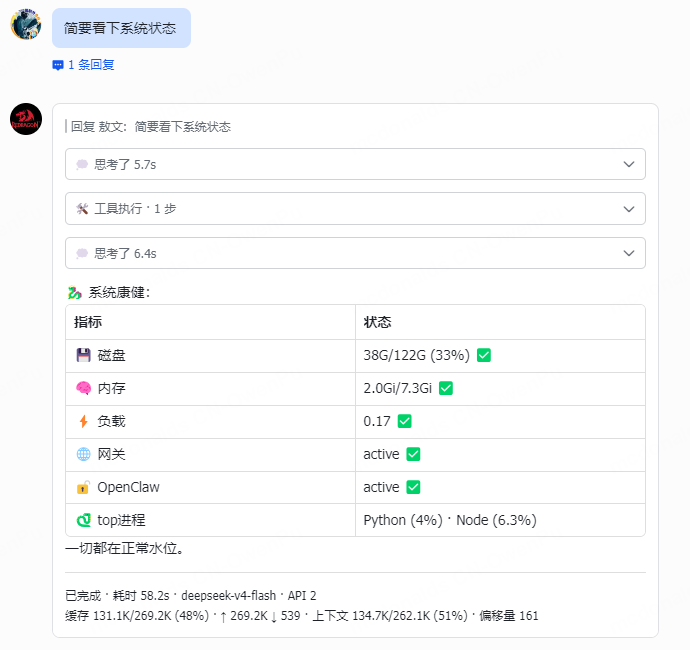
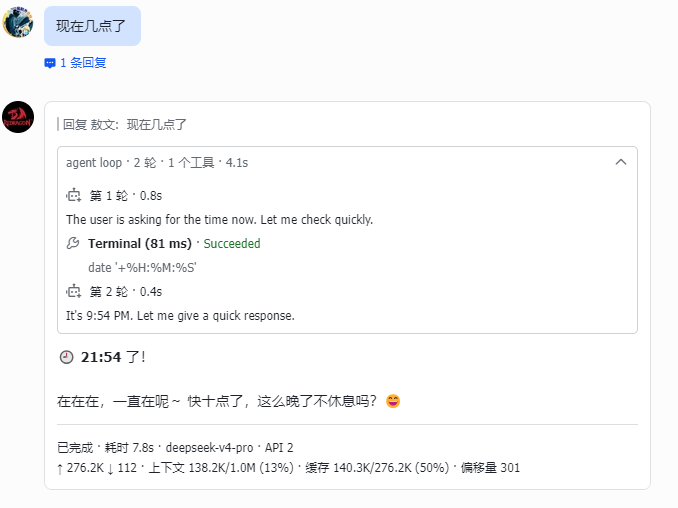
fix: 修复正常完成的卡片被误判为interrupt的问题

diff --git a/README.md b/README.md
@@ -18,8 +18,6 @@ English | <a href="README.zh-CN.md">中文版</a>
 
 Feishu/Lark CardKit v2.0 streaming cards plugin for Hermes Agent — real-time AI response display with typing effect, unified collapsible panel, chronological reasoning/tool display, and more.
 
-> **Note**: When a streaming card completes, the card's summary text (shown in the Feishu conversation list) is automatically updated from "处理中..." to a snippet of the answer content (or reasoning text as fallback). Per Feishu CardKit 2.0 documentation, the conversation list preview is **atomically** updated when `streaming_mode` transitions from `true` to `false` — the `summary.content` must be included in the `close_streaming` request itself. Both `content` and `i18n_content` (zh_cn + en_us) are updated to ensure the conversation list reflects the completed card's actual content for all users, regardless of their Feishu language setting.
-
 > Based on [Cheerwhy/hermes-lark-streaming](https://github.com/Cheerwhy/hermes-lark-streaming) v0.7.0, with extensive refactoring and optimizations
 >
 > ⚠ **Incompatible with the upstream plugin** — if you have the original `Cheerwhy/hermes-lark-streaming` installed, please uninstall it first before installing this version.
@@ -28,10 +26,10 @@ Feishu/Lark CardKit v2.0 streaming cards plugin for Hermes Agent — real-time A
 
 ## Effect Preview
 
-<img src="assets/img1.png" width="22%" style="max-height: 250px; object-fit: contain; margin: 5px;" />
-<img src="assets/img2.png" width="22%" style="max-height: 250px; object-fit: contain; margin: 5px;" />
-<img src="assets/img3.png" width="22%" style="max-height: 250px; object-fit: contain; margin: 5px;" />
-<img src="assets/img4.png" width="22%" style="max-height: 250px; object-fit: contain; margin: 5px;" />
+<img src="assets/img1.png" width="20%" style="max-height: 250px; object-fit: contain; margin: 5px;" />
+<img src="assets/img2.png" width="20%" style="max-height: 250px; object-fit: contain; margin: 5px;" />
+<img src="assets/img3.png" width="20%" style="max-height: 250px; object-fit: contain; margin: 5px;" />
+<img src="assets/img4.png" width="20%" style="max-height: 250px; object-fit: contain; margin: 5px;" />
 
 ---
 
@@ -148,6 +146,13 @@ hermes_lark_streaming:
 
 When `inject_time: true`, the plugin prepends `<time>HH:MM:SS</time>` to each user message so the AI can perceive the current time without calling `date`. XML tags are used because LLMs understand them as metadata and won't mimic them in output. Prefix-cache safe (~6 tokens/message). See [SKILL.md](docs/SKILL.md) for full details.
 
+### Reasoning Panel Display
+
+```yaml
+display:
+  show_reasoning: true  # Show reasoning content in the unified panel
+```
+
 ### Feishu Credentials
 
 | Priority | Source | Example |
@@ -161,13 +166,6 @@ When `inject_time: true`, the plugin prepends `<time>HH:MM:SS</time>` to each us
 FEISHU_APP_ID=cli_xxxxxx
 FEISHU_APP_SECRET=xxxxxx
 FEISHU_BASE_URL=https://open.feishu.cn/open-apis
-```
-
-### Reasoning Panel Display
-
-```yaml
-display:
-  show_reasoning: true  # Show reasoning content in the unified panel
 ```
 
 ---

diff --git a/README.zh-CN.md b/README.zh-CN.md
@@ -18,8 +18,6 @@
 
 为 Hermes Agent 提供飞书/Lark CardKit v2.0 流式消息卡片插件 — 实时 AI 响应展示，支持打字机效果、统一可折叠面板、按时间线交错显示推理与工具调用等。
 
-> **提示**：流式卡片完成时，卡片的摘要文本（在飞书会话列表中显示）会自动从"处理中..."更新为回答内容的摘要（如无回答则使用推理文本作为回退）。根据飞书 CardKit 2.0 文档，会话列表预览在 `streaming_mode` 从 `true` 变为 `false` 时**原子地**更新——`summary.content` 必须包含在 `close_streaming` 请求本身中。同时更新 `content` 和 `i18n_content`（zh_cn + en_us），确保无论用户的飞书语言设置如何，会话列表都能正确显示已完成卡片的实际内容。
-
 > 基于 [Cheerwhy/hermes-lark-streaming](https://github.com/Cheerwhy/hermes-lark-streaming) v0.7.0 版本 fork 后进行改造和优化
 >
 > ⚠ **与上游插件不兼容** — 如已安装原版 `Cheerwhy/hermes-lark-streaming`，请先卸载后再安装本插件。
@@ -28,10 +26,10 @@
 
 ## 效果预览
 
-<img src="assets/img1.png" width="22%" style="max-height: 250px; object-fit: contain; margin: 5px;" />
-<img src="assets/img2.png" width="22%" style="max-height: 250px; object-fit: contain; margin: 5px;" />
-<img src="assets/img3.png" width="22%" style="max-height: 250px; object-fit: contain; margin: 5px;" />
-<img src="assets/img4.png" width="22%" style="max-height: 250px; object-fit: contain; margin: 5px;" />
+<img src="assets/img1.png" width="20%" style="max-height: 250px; object-fit: contain; margin: 5px;" />
+<img src="assets/img2.png" width="20%" style="max-height: 250px; object-fit: contain; margin: 5px;" />
+<img src="assets/img3.png" width="20%" style="max-height: 250px; object-fit: contain; margin: 5px;" />
+<img src="assets/img4.png" width="20%" style="max-height: 250px; object-fit: contain; margin: 5px;" />
 
 ---
 
@@ -143,6 +141,13 @@ hermes_lark_streaming:
 
 开启 `inject_time: true` 后，插件在每条用户消息前添加 `<time>HH:MM:SS</time>` 时间前缀，让 AI 无需调用 `date` 工具即可感知当前时间。使用 XML 标签是因为 LLM 普遍将其理解为结构化元数据，不会在回复中模仿。Prefix Cache 安全（每条约 6 tokens）。详见 [SKILL.md](docs/SKILL.md)。
 
+### 推理面板显示
+
+```yaml
+display:
+  show_reasoning: true  # 在统一面板中显示推理内容
+```
+
 ### 飞书凭据
 
 | 优先级 | 来源 | 示例 |
@@ -156,13 +161,6 @@ hermes_lark_streaming:
 FEISHU_APP_ID=cli_xxxxxx
 FEISHU_APP_SECRET=xxxxxx
 FEISHU_BASE_URL=https://open.feishu.cn/open-apis
-```
-
-### 推理面板显示
-
-```yaml
-display:
-  show_reasoning: true  # 在统一面板中显示推理内容
 ```
 
 ---

diff --git a/docs/CHANGELOG.md b/docs/CHANGELOG.md
@@ -23,4 +23,3 @@
 | ✨ Feature | 打字机效果 | 流式卡片输出按字符渲染，匹配飞书 CardKit v2.0 文档行为 | `print_frequency_ms=70`、`print_step=1`、默认 `flush_interval_ms=100ms`、仅回答快流 70ms |
 | 🚀 Performance | 延迟 Markdown 优化 | 流式期间每次 flush 都执行 `optimize_markdown_style` 开销大 | 流式期间发送原始文本，仅在封卡时执行完整 Markdown 优化 |
 | 🚀 Performance | 间隔计时器优化 | `LONG_GAP_MS` 和 `BATCH_AFTER_GAP_MS` 过长 | `LONG_GAP_MS` 2.0s → 1.0s，`BATCH_AFTER_GAP_MS` 300ms → 100ms；瞬态重试延迟缩减 |
-| 🧹 Cleanup | 代码清理 | Emoji 前缀、死代码、冗余导出 | 移除面板标题 emoji 前缀；删除 `build_linear_compact_seal_card()`；清理 `__all__` 导出 |
